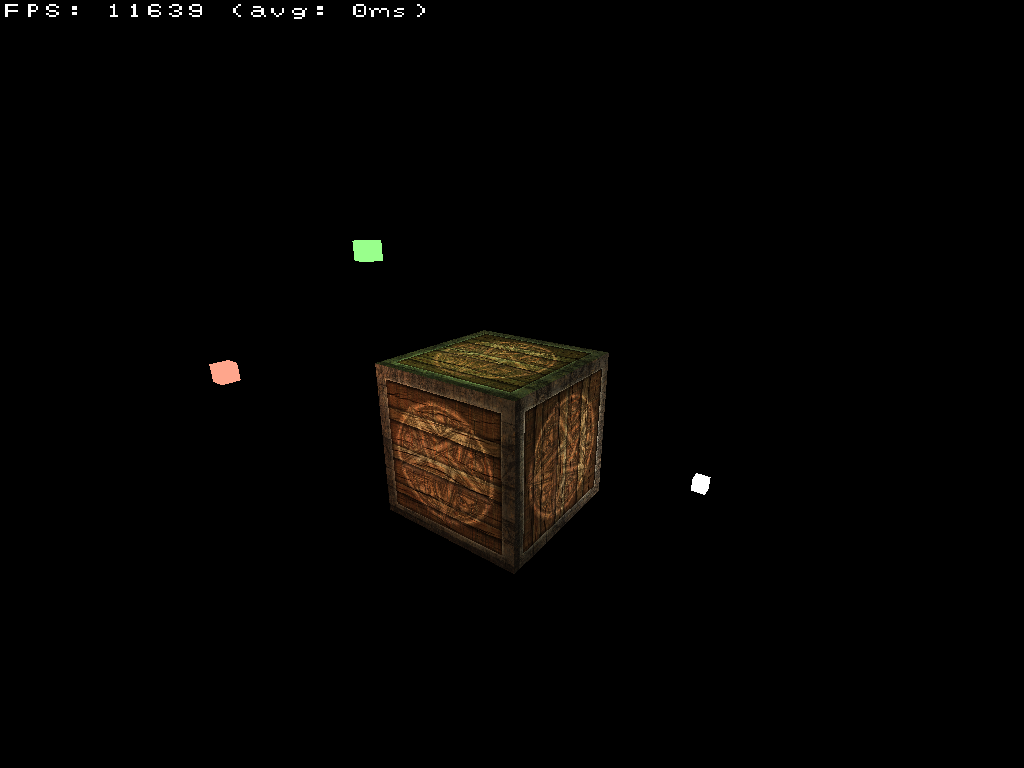
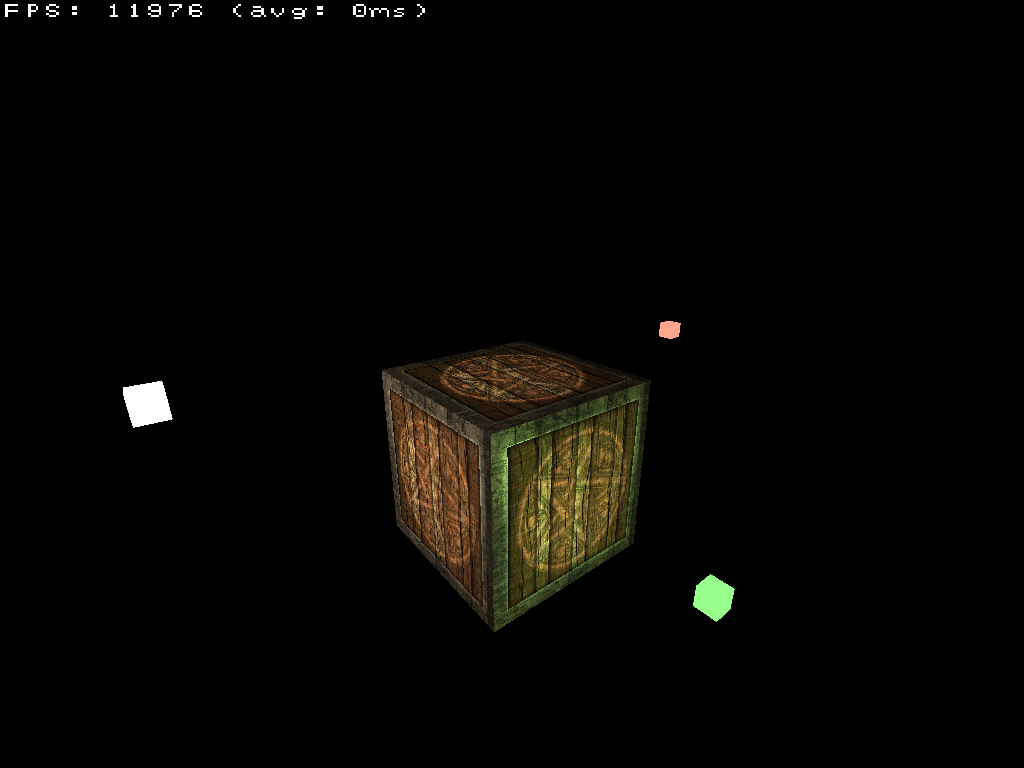
Basic .obj support

diff --git a/demo/main/main.cpp b/demo/main/main.cpp
@@ -2,6 +2,10 @@
 
 int main() {
 
+	ObjParser parser("assets/cube-simple.obj");
+	parser.format(0, 6, 3);
+	parser.load();
+
 	const int width = 1024;
 	const int height = 768;
 
@@ -75,47 +79,8 @@ int main() {
 
 	VertexConsumer consumer3di = provider3di.get();
 
-	consumer3d.vertex( -0.5f, -0.5f, -0.5f,  0.0f,  0.0f, -1.0f,  0.0f,  0.0f );
-	consumer3d.vertex(  0.5f, -0.5f, -0.5f,  0.0f,  0.0f, -1.0f,  1.0f,  0.0f );
-	consumer3d.vertex(  0.5f,  0.5f, -0.5f,  0.0f,  0.0f, -1.0f,  1.0f,  1.0f );
-	consumer3d.vertex(  0.5f,  0.5f, -0.5f,  0.0f,  0.0f, -1.0f,  1.0f,  1.0f );
-	consumer3d.vertex( -0.5f,  0.5f, -0.5f,  0.0f,  0.0f, -1.0f,  0.0f,  1.0f );
-	consumer3d.vertex( -0.5f, -0.5f, -0.5f,  0.0f,  0.0f, -1.0f,  0.0f,  0.0f );
-
-	consumer3d.vertex( -0.5f, -0.5f,  0.5f,  0.0f,  0.0f,  1.0f,  0.0f,  0.0f );
-	consumer3d.vertex(  0.5f, -0.5f,  0.5f,  0.0f,  0.0f,  1.0f,  1.0f,  0.0f );
-	consumer3d.vertex(  0.5f,  0.5f,  0.5f,  0.0f,  0.0f,  1.0f,  1.0f,  1.0f );
-	consumer3d.vertex(  0.5f,  0.5f,  0.5f,  0.0f,  0.0f,  1.0f,  1.0f,  1.0f );
-	consumer3d.vertex( -0.5f,  0.5f,  0.5f,  0.0f,  0.0f,  1.0f,  0.0f,  1.0f );
-	consumer3d.vertex( -0.5f, -0.5f,  0.5f,  0.0f,  0.0f,  1.0f,  0.0f,  0.0f );
-
-	consumer3d.vertex( -0.5f,  0.5f,  0.5f, -1.0f,  0.0f,  0.0f,  1.0f,  0.0f );
-	consumer3d.vertex( -0.5f,  0.5f, -0.5f, -1.0f,  0.0f,  0.0f,  1.0f,  1.0f );
-	consumer3d.vertex( -0.5f, -0.5f, -0.5f, -1.0f,  0.0f,  0.0f,  0.0f,  1.0f );
-	consumer3d.vertex( -0.5f, -0.5f, -0.5f, -1.0f,  0.0f,  0.0f,  0.0f,  1.0f );
-	consumer3d.vertex( -0.5f, -0.5f,  0.5f, -1.0f,  0.0f,  0.0f,  0.0f,  0.0f );
-	consumer3d.vertex( -0.5f,  0.5f,  0.5f, -1.0f,  0.0f,  0.0f,  1.0f,  0.0f );
-
-	consumer3d.vertex(  0.5f,  0.5f,  0.5f,  1.0f,  0.0f,  0.0f,  1.0f,  0.0f );
-	consumer3d.vertex(  0.5f,  0.5f, -0.5f,  1.0f,  0.0f,  0.0f,  1.0f,  1.0f );
-	consumer3d.vertex(  0.5f, -0.5f, -0.5f,  1.0f,  0.0f,  0.0f,  0.0f,  1.0f );
-	consumer3d.vertex(  0.5f, -0.5f, -0.5f,  1.0f,  0.0f,  0.0f,  0.0f,  1.0f );
-	consumer3d.vertex(  0.5f, -0.5f,  0.5f,  1.0f,  0.0f,  0.0f,  0.0f,  0.0f );
-	consumer3d.vertex(  0.5f,  0.5f,  0.5f,  1.0f,  0.0f,  0.0f,  1.0f,  0.0f );
-
-	consumer3d.vertex( -0.5f, -0.5f, -0.5f,  0.0f, -1.0f,  0.0f,  0.0f,  1.0f );
-	consumer3d.vertex(  0.5f, -0.5f, -0.5f,  0.0f, -1.0f,  0.0f,  1.0f,  1.0f );
-	consumer3d.vertex(  0.5f, -0.5f,  0.5f,  0.0f, -1.0f,  0.0f,  1.0f,  0.0f );
-	consumer3d.vertex(  0.5f, -0.5f,  0.5f,  0.0f, -1.0f,  0.0f,  1.0f,  0.0f );
-	consumer3d.vertex( -0.5f, -0.5f,  0.5f,  0.0f, -1.0f,  0.0f,  0.0f,  0.0f );
-	consumer3d.vertex( -0.5f, -0.5f, -0.5f,  0.0f, -1.0f,  0.0f,  0.0f,  1.0f );
-
-	consumer3d.vertex( -0.5f,  0.5f, -0.5f,  0.0f,  1.0f,  0.0f,  0.0f,  1.0f );
-	consumer3d.vertex(  0.5f,  0.5f, -0.5f,  0.0f,  1.0f,  0.0f,  1.0f,  1.0f );
-	consumer3d.vertex(  0.5f,  0.5f,  0.5f,  0.0f,  1.0f,  0.0f,  1.0f,  0.0f );
-	consumer3d.vertex(  0.5f,  0.5f,  0.5f,  0.0f,  1.0f,  0.0f,  1.0f,  0.0f );
-	consumer3d.vertex( -0.5f,  0.5f,  0.5f,  0.0f,  1.0f,  0.0f,  0.0f,  0.0f );
-	consumer3d.vertex( -0.5f,  0.5f, -0.5f,  0.0f,  1.0f,  0.0f,  0.0f,  1.0f );
+	auto& buffer = parser.get("Cube");
+	consumer3d.vertex( buffer.data(), buffer.count() );
 
 	consumer3d.shrink();
 	consumer3d.submit();

diff --git a/src/loader/parser.hpp b/src/loader/parser.hpp
@@ -1,0 +1,144 @@
+#pragma once
+
+#include <include/external.hpp>
+#include <util/helper.hpp>
+#include <util/buffer.hpp>
+
+class Parser {
+
+	private: 
+
+		std::ifstream file;
+
+	public:
+
+		Parser(const std::string& path) : file(path) {
+			if( !this->file.is_open() ) {
+				logger::warn("Failed to open file: '", path, "'!");
+			}
+		}
+
+		void load() {
+			std::vector<std::string> vec;
+			std::string line;
+
+			int counter = 1;
+
+			while( getline(this->file, line) ) {
+				split(vec, line, ' ');
+
+				if(vec[0] != "#" && vec.size() > 0) {
+					this->handle(vec, counter);
+				}
+
+				counter ++;
+				vec.clear();
+			}
+		}
+
+	protected:
+
+		virtual void handle( std::vector<std::string>& parts, int line ) {
+			// do nothing by default
+		}
+
+};
+
+class ObjParser : public Parser {
+
+	private:
+
+		FastBuffer<glm::vec3> v;
+		FastBuffer<glm::vec3> n;
+		FastBuffer<glm::vec2> t;
+		std::string name = "default";
+
+		std::unordered_map<std::string, FastBuffer<float>> things;
+		FastBuffer<float>* current = nullptr;
+
+		float vertex[8];
+		int offset[3];
+
+		static glm::vec3 cast3f( std::vector<std::string>& parts, const int offset ) {
+			return glm::vec3( std::stof(parts[offset + 0]), std::stof(parts[offset + 1]), std::stof(parts[offset + 2]) );
+		}
+
+		static glm::vec2 cast2f( std::vector<std::string>& parts, const int offset ) {
+			return glm::vec2( std::stof(parts[offset + 0]), std::stof(parts[offset + 1]) );
+		}
+
+		void face( int type, int index ) {
+			switch(type) {
+				case 0: memcpy( this->vertex + offset[type], v.data(index - 1), 3 * sizeof(float) ); break; // v
+				case 1: memcpy( this->vertex + offset[type], t.data(index - 1), 2 * sizeof(float) ); break; // t
+				case 2: memcpy( this->vertex + offset[type], n.data(index - 1), 3 * sizeof(float) ); break; // n
+			}
+		}
+
+	public:
+
+		ObjParser(const std::string& path) : Parser(path) {
+			this->current = &(things[this->name]);
+			this->format(0, 3, 5);
+		}
+
+		FastBuffer<float>& get(const std::string& name) {
+			return this->things.at(name);
+		}
+
+		FastBuffer<float>& get() {
+			return *current;
+		}
+
+		void format(int v, int t, int n) {
+			offset[0] = v;
+			offset[1] = t;
+			offset[2] = n;
+		}
+
+	protected:
+
+		void handle( std::vector<std::string>& parts, int line ) {
+			const std::string& c = parts[0];
+			const int args = parts.size() - 1;
+
+			if( c == "o" && args == 1 ) {
+				name = parts[1];
+				this->current = &(things[name]);
+			}else
+
+			if( c == "v" && args == 3 ) {
+				v.insert( cast3f(parts, 1) );
+			}else
+
+			if( c == "vn" && args == 3 ) {
+				n.insert( cast3f(parts, 1) );
+			}else
+
+			if( c == "vt" && args == 2 ) {
+				t.insert( cast2f(parts, 1) );
+			}else
+
+			if( c == "f" && args == 3 ) {
+				std::vector<std::string> vec;
+
+				for( int i = 1; i <= 3; i ++ ) {
+					split(vec, parts[i], '/');
+
+					for( int j = 0; j < 3 && j < vec.size(); j ++ ) {
+						face(j, std::stoi(vec[j]));
+					}
+
+					current->insert(this->vertex, 8);
+					vec.clear();
+				}
+
+				
+				
+			}else
+
+			logger::warn("Invalid or unsuported OBJ command at line: ", line);
+		}
+
+};
+

diff --git a/src/util/buffer.hpp b/src/util/buffer.hpp
@@ -37,6 +37,9 @@ class FastBuffer {
 		// get pointer to internal continous buffer
 		T* data();
 
+		// get pointer to element
+		T* data( int index );
+
 		// copy data from other FastBuffer
 		void from(FastBuffer<T, Allocator>& buffer);
 
@@ -120,6 +123,11 @@ T* FastBuffer<T, Allocator>::copy() {
 template< typename T, class Allocator >
 T* FastBuffer<T, Allocator>::data() {
 	return this->buffer;
+}
+
+template< typename T, class Allocator >
+T* FastBuffer<T, Allocator>::data( int index ) {
+	return this->buffer + index;
 }
 
 template< typename T, class Allocator >

diff --git a/src/util/helper.cpp b/src/util/helper.cpp
@@ -1,0 +1,15 @@
+
+#include "helper.hpp"
+
+void split(std::vector<std::string>& vec, const std::string &s, char delim) {
+	std::vector<std::string> result;
+	std::stringstream ss(s);
+	std::string item;
+
+	while( getline(ss, item, delim) ) {
+		if( item.size() > 0 ) {
+			vec.push_back(item);
+		}
+	}
+}
+

diff --git a/src/core.hpp b/src/core.hpp
@@ -12,6 +12,7 @@
 #include "util/trait.hpp"
 #include "util/charset.hpp"
 #include "util/thread_pool.hpp"
+#include "loader/parser.hpp"
 #include "renderer/shader.hpp"
 #include "renderer/context.hpp"
 #include "renderer/renderer.hpp"

diff --git a/src/util/helper.hpp b/src/util/helper.hpp
@@ -1,0 +1,7 @@
+#pragma once
+
+#include <include/external.hpp>
+
+// why this isn't in the std?
+void split(std::vector<std::string>& vec, const std::string &s, char delim);
+

diff --git a/src/include/external.hpp b/src/include/external.hpp
@@ -34,6 +34,7 @@
 #include <utility>
 #include <filesystem>
 #include <condition_variable>
+#include <fstream>
 
 // C
 #include <stdio.h>
